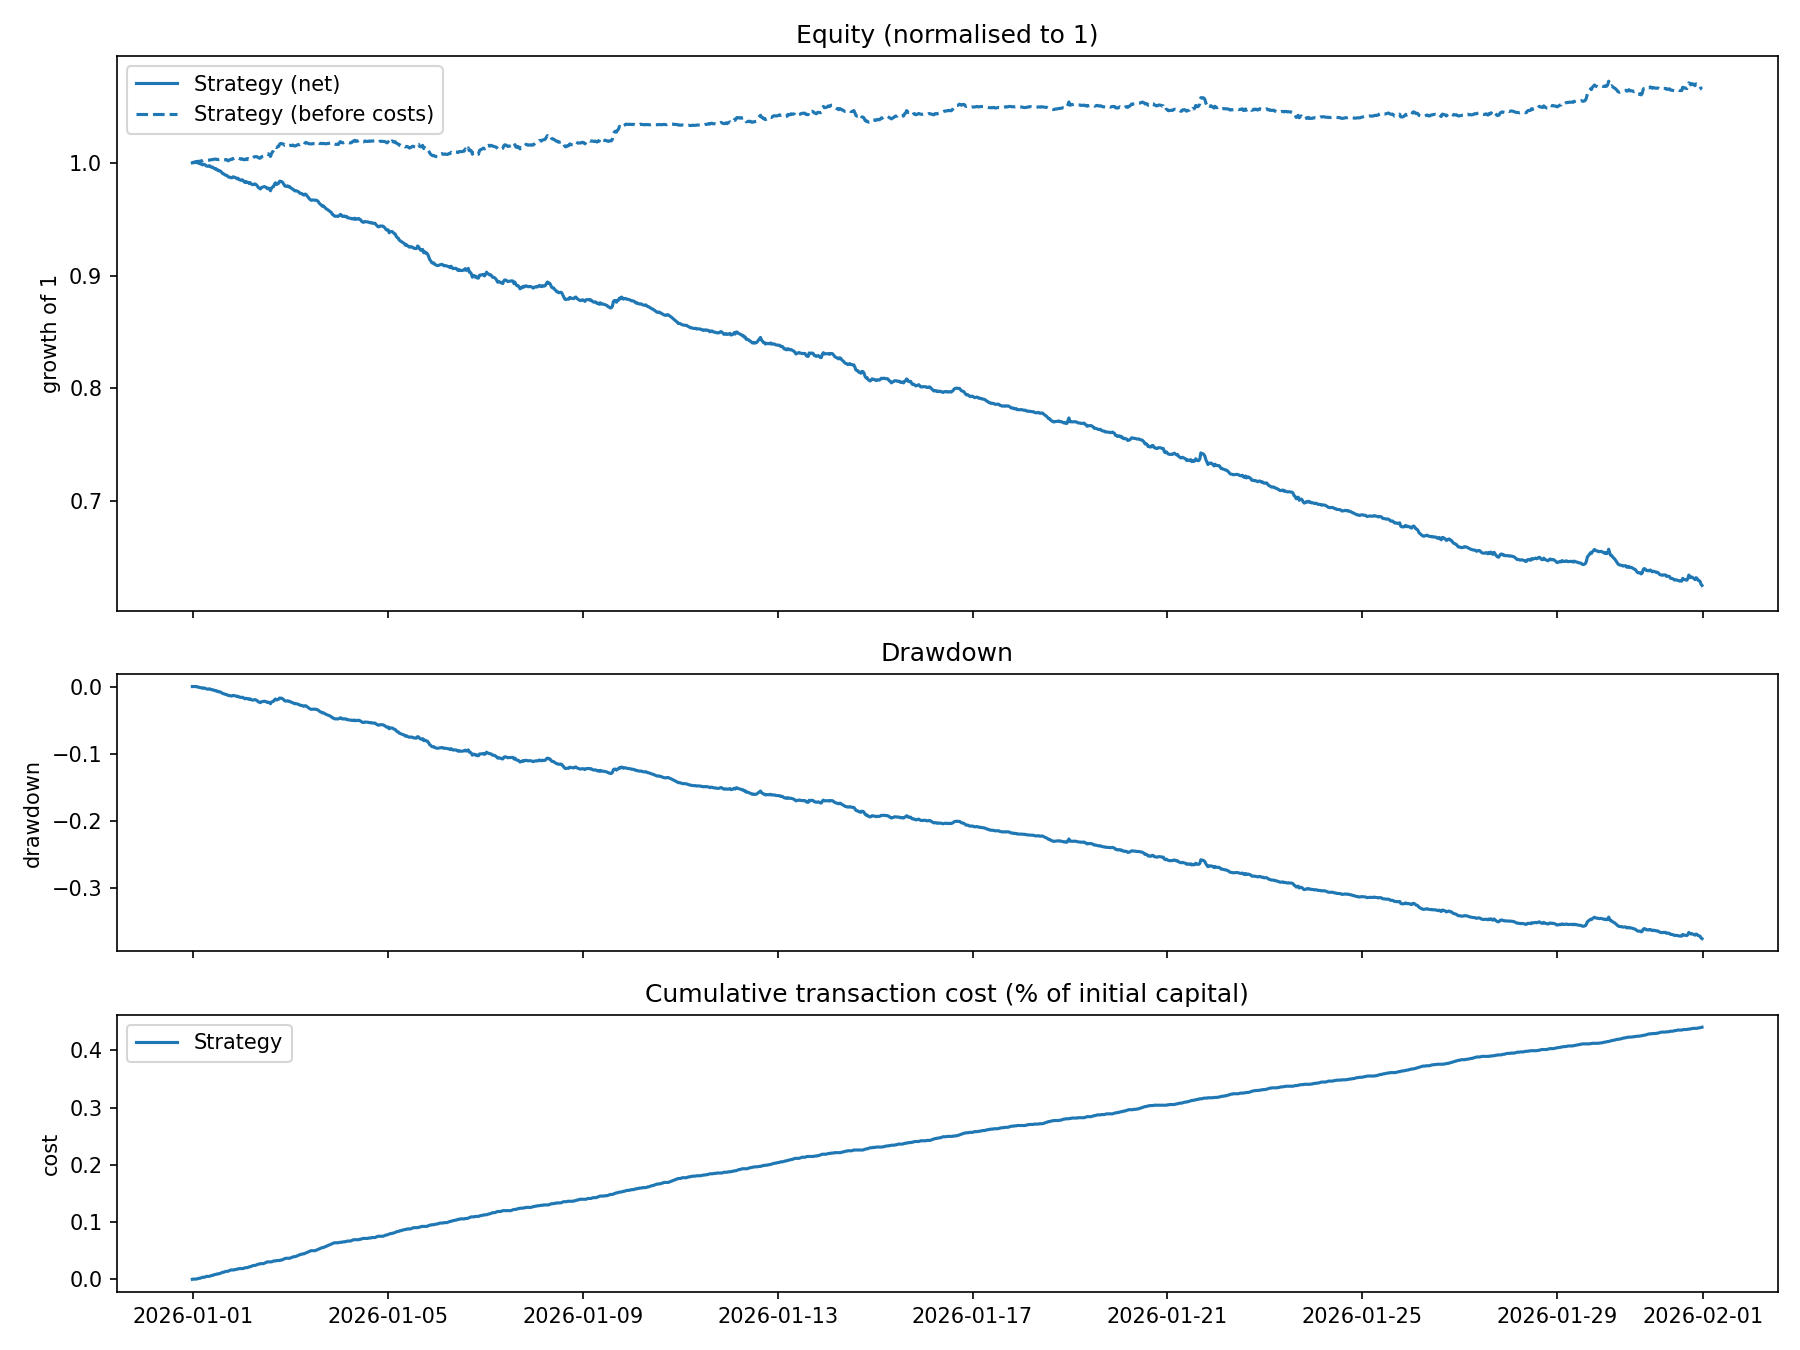
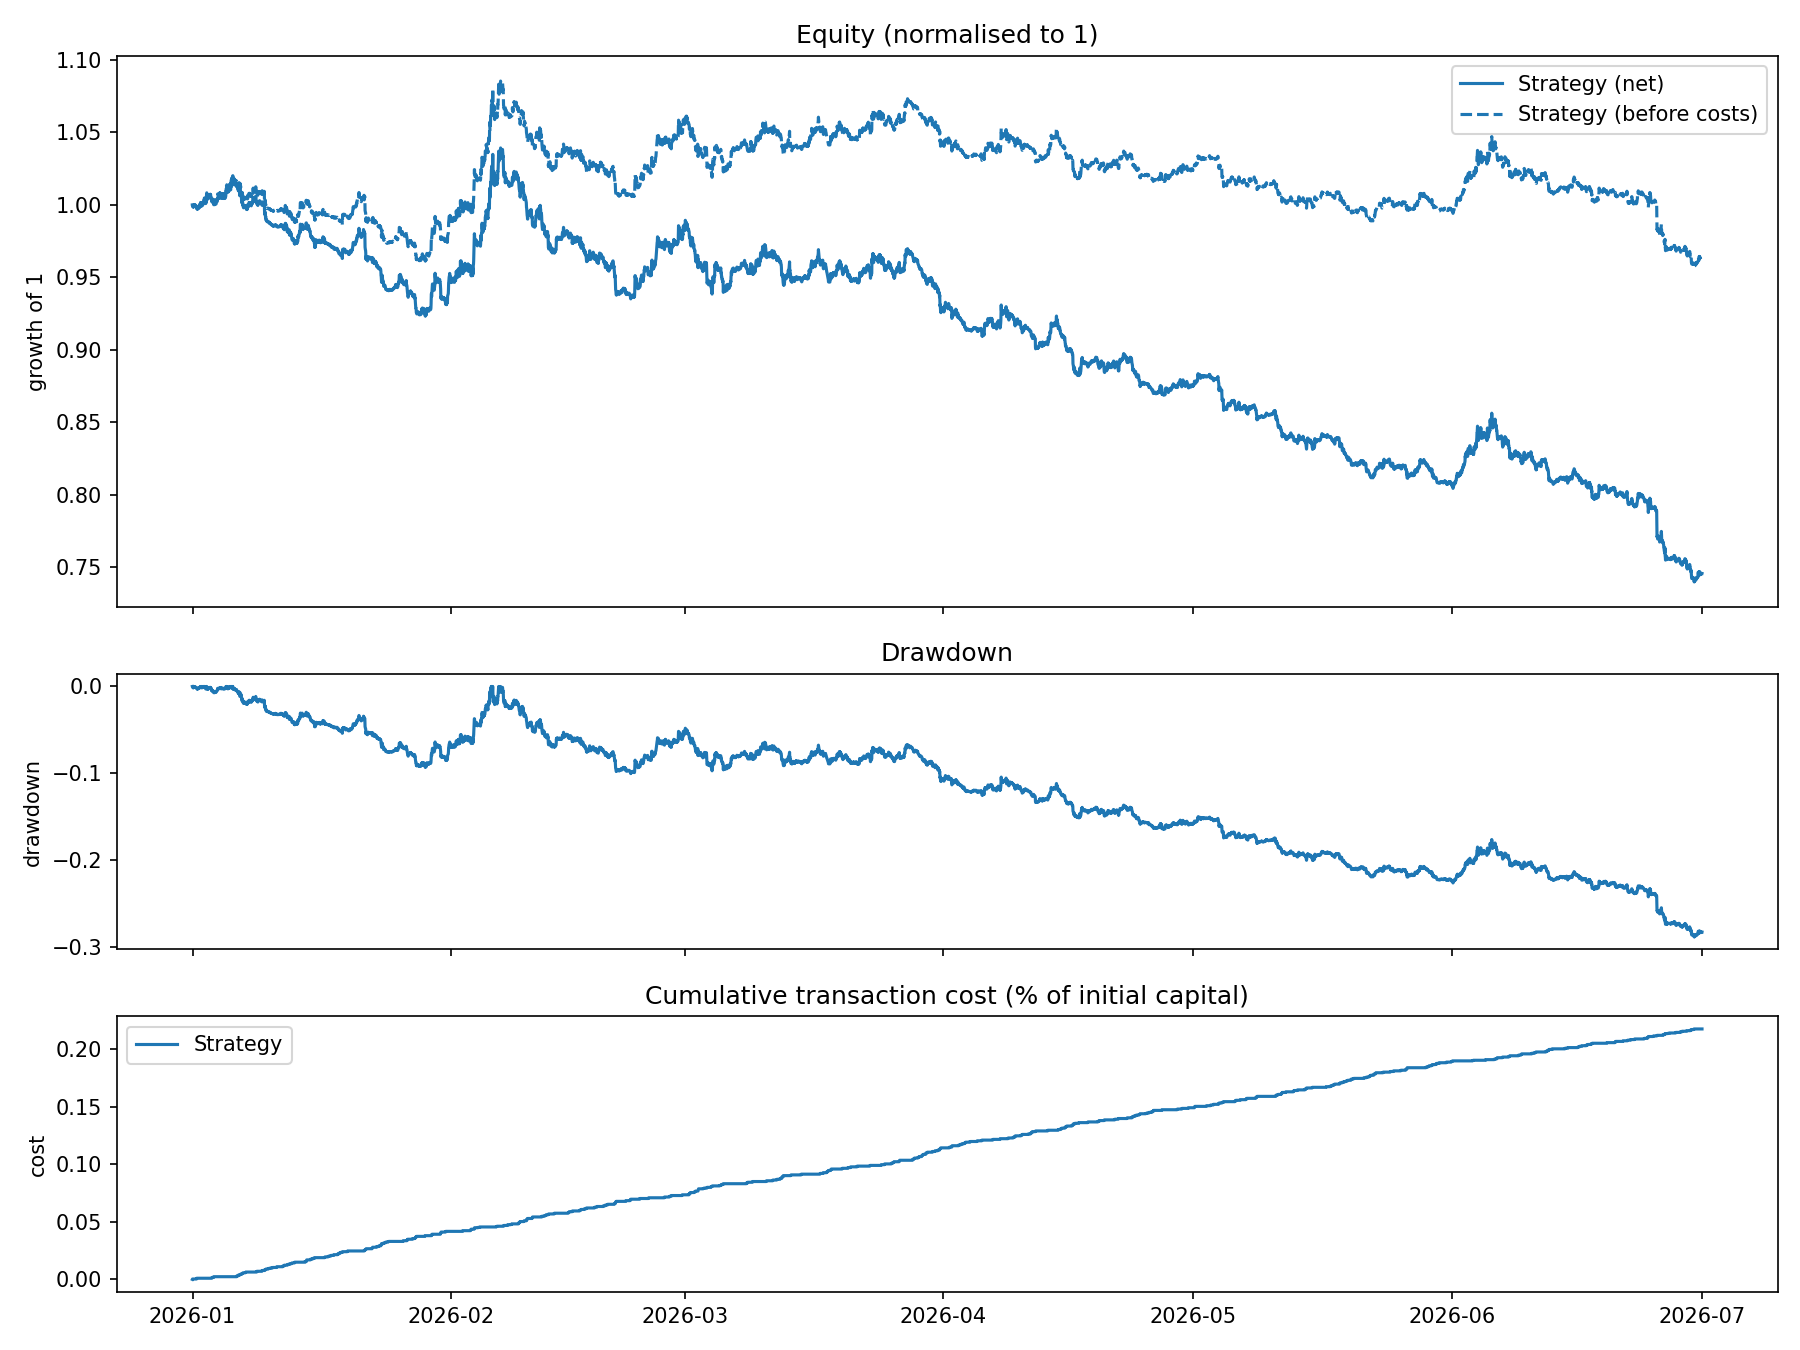
Added mean reversion and momentum

diff --git a/run_daily.py b/run_daily.py
@@ -28,10 +28,12 @@ from src.backtest import execute_bar
 from src.data_source import fetch_bars
 from src.features import build_features
 from src.records import append_csv, load_state, save_state
-from src.strategy import HoldStrategy
+from src.strategy import RegimeStrategy
 from src.tracker import CostModel, Portfolio
 
-STRATEGY_KEYS = ("th_up", "th_down", "min_edge", "horizon", "allow_short")
+STRATEGY_KEYS = ("vol_high", "vol_low", "mom_rsi", "mr_rsi", "mr_bb", "horizon", "allow_short")
+# technical indicators (from build_features, data through t-1) passed to the strategy each bar
+INDICATOR_COLS = ("rsi_14", "close_over_sma_20", "close_over_sma_50", "bb_pctb_20", "bb_width_20")
 
 
 def cost_model_from(cfg) -> CostModel:
@@ -40,7 +42,8 @@ def cost_model_from(cfg) -> CostModel:
 
 
 def strategy_params(cfg, asset: str) -> dict:
-    defaults = {"th_up": cfg.TH_UP, "th_down": cfg.TH_DOWN, "min_edge": cfg.MIN_EDGE,
+    defaults = {"vol_high": cfg.VOL_HIGH, "vol_low": cfg.VOL_LOW, "mom_rsi": cfg.MOM_RSI,
+                "mr_rsi": cfg.MR_RSI, "mr_bb": cfg.MR_BB,
                 "horizon": cfg.HORIZON, "allow_short": cfg.ALLOW_SHORT}
     return {k: cfg.ASSETS[asset].get(k, v) for k, v in defaults.items()}
 
@@ -63,7 +66,7 @@ class DailyRunner:
         state = load_state(cfg.RECORDS_DIR)
         if state is None:
             self.pf = Portfolio(cfg.INITIAL_CASH, cost_model=costs)
-            self.strategies = {a: HoldStrategy(**strategy_params(cfg, a)) for a in self.assets}
+            self.strategies = {a: RegimeStrategy(**strategy_params(cfg, a)) for a in self.assets}
             self.prev_targets = {a: 0.0 for a in self.assets}
             self.last_bar_time = {a: None for a in self.assets}
         else:
@@ -77,10 +80,10 @@ class DailyRunner:
             for a in self.assets:
                 saved = state["strategies"][a]
                 params = strategy_params(cfg, a)
-                changed = [k for k in STRATEGY_KEYS if saved[k] != params[k]]
+                changed = [k for k in STRATEGY_KEYS if saved.get(k) != params[k]]
                 if changed:
                     print(f"  warning: {a} strategy settings changed since last run: {changed}")
-                self.strategies[a] = HoldStrategy(**params, position=saved["position"],
+                self.strategies[a] = RegimeStrategy(**params, position=saved["position"],
                                                   bars_left=saved["bars_left"])
                 self.prev_targets[a] = float(state["prev_targets"][a])
                 t = state["last_bar_time"][a]
@@ -113,8 +116,16 @@ class DailyRunner:
         #     print(f"  warning: {asset}: {nan_rows} bars with NaN features (increase LOOKBACK_DAYS?)")
         # return (pd.Series(up.predict(X), index=X.index),
         #         pd.Series(down.predict(X), index=X.index))
+        feats = build_features(hist[asset], asset, hist)
+        cols = feats.columns
+        X = feats.loc[bars_today.index, cols]
+        nan_rows = int(X.isna().any(axis=1).sum())
+        if nan_rows:
+            print(f"  warning: {asset}: {nan_rows} bars with NaN features (increase LOOKBACK_DAYS?)")
+        # print(feats)
         return (pd.Series(np.random.rand(len(bars_today)), index=bars_today.index),
-                pd.Series(np.random.rand(len(bars_today)), index=bars_today.index))
+                pd.Series(np.random.rand(len(bars_today)), index=bars_today.index),
+                feats.loc[bars_today.index, list(INDICATOR_COLS)])
 
     def run_day(self, day) -> int:
         """Process every not-yet-processed bar of `day` (UTC). Returns bars processed."""
@@ -137,8 +148,8 @@ class DailyRunner:
             timeline = timeline.union(today[a].index)
         data = {}
         for a in active:
-            p_up, p_down = self._predict(a, hist, today[a])
-            df = today[a][["open", "close"]].assign(p_up=p_up, p_down=p_down)
+            p_up, p_down, ind = self._predict(a, hist, today[a])
+            df = today[a][["open", "close"]].assign(p_up=p_up, p_down=p_down).join(ind)
             data[a] = df.reindex(timeline)
 
         n_fills, n_trades, n_eq = len(self.pf._fills), len(self.pf._trades), len(self.pf._equity)
@@ -149,8 +160,10 @@ class DailyRunner:
                 row = data[a].loc[ts]
                 if np.isnan(row["open"]):
                     continue                      # no bar for this asset at ts
+                indicators = {k: float(row[k]) for k in INDICATOR_COLS}
                 signals[a], targets[a] = self.strategies[a].step(float(row["p_up"]),
-                                                                 float(row["p_down"]))
+                                                                 float(row["p_down"]),
+                                                                 indicators)
                 opens[a], closes[a] = float(row["open"]), float(row["close"])
             before = {a: self.pf.position(a) for a in targets}
             fills = execute_bar(self.pf, ts, targets, self.prev_targets, opens, closes,
@@ -164,7 +177,9 @@ class DailyRunner:
                           "sell" if after < before[a] - 1e-12 else "hold")
                 decisions.append({"timestamp": ts, "asset": a, "open": opens[a],
                                   "close": closes[a], "p_up": data[a].at[ts, "p_up"],
-                                  "p_down": data[a].at[ts, "p_down"], "signal": signals[a],
+                                  "p_down": data[a].at[ts, "p_down"],
+                                  **{k: data[a].at[ts, k] for k in INDICATOR_COLS},
+                                  "signal": signals[a],
                                   "target": targets[a], "action": action,
                                   "position_qty": after, "transaction_cost": cost.get(a, 0.0),
                                   "portfolio_equity": equity})

diff --git a/src/strategy.py b/src/strategy.py
@@ -10,6 +10,8 @@ from __future__ import annotations
 import numpy as np
 import pandas as pd
 
+NAN = float("nan")
+
 
 def signals_from_probs(p_up: pd.Series, p_down: pd.Series, th_up: float = 0.15,
                        th_down: float = 0.15, min_edge: float = 0.0,
@@ -26,6 +28,7 @@ def signals_from_probs(p_up: pd.Series, p_down: pd.Series, th_up: float = 0.15,
     sig = pd.Series(0, index=p_up.index, dtype=int)
     sig[long_] = 1
     sig[short_ & ~long_] = -1
+    print(sig)
     return sig
 
 
@@ -65,16 +68,18 @@ class HoldStrategy:
         self.horizon, self.allow_short, self.exit_on_opposite = horizon, allow_short, exit_on_opposite
         self.position, self.bars_left = position, bars_left
 
-    def signal(self, p_up: float, p_down: float) -> int:
+    def signal(self, p_up: float, p_down: float, indicators: dict | None = None) -> int:
+        """Probabilities only; `indicators` is ignored here (see RegimeStrategy)."""
         if p_up >= self.th_up and p_up - p_down >= self.min_edge:
             return 1
         if self.allow_short and p_down >= self.th_down and p_down - p_up >= self.min_edge:
             return -1
         return 0
 
-    def step(self, p_up: float, p_down: float) -> tuple[int, int]:
+    def step(self, p_up: float, p_down: float,
+             indicators: dict | None = None) -> tuple[int, int]:
         """Returns (entry signal, position to hold during this bar)."""
-        s = self.signal(p_up, p_down)
+        s = self.signal(p_up, p_down, indicators)
         if s != 0 and (self.position == 0 or s == self.position or self.exit_on_opposite):
             self.position, self.bars_left = s, self.horizon
         held = self.position
@@ -90,3 +95,59 @@ class HoldStrategy:
     @classmethod
     def from_state(cls, state: dict) -> "HoldStrategy":
         return cls(**state)
+
+
+class RegimeStrategy(HoldStrategy):
+    """Momentum / mean-reversion strategy that uses the models only as a volatility gauge.
+
+    The up / down models mostly predict the SIZE of the next move, not its direction, so
+    vol = p_up + p_down (chance of a >1 SD move either way within the horizon) picks the regime:
+      vol >= vol_high  -> momentum: follow the trend (price vs SMA20/SMA50 + RSI)
+      vol <= vol_low   -> mean reversion: fade extremes (Bollinger %B + RSI)
+      in between       -> no new entry (an open position keeps its holding clock)
+    Direction always comes from the indicators. Holding / flipping works as in HoldStrategy.
+    NaN indicators (warm-up) never trigger an entry because NaN comparisons are False.
+    """
+
+    def __init__(self, vol_high: float = 0.40, vol_low: float = 0.25,
+                 mom_rsi: float = 55.0, mr_rsi: float = 30.0, mr_bb: float = 0.0,
+                 horizon: int = 12, allow_short: bool = True, exit_on_opposite: bool = True,
+                 position: int = 0, bars_left: int = 0):
+        self.vol_high, self.vol_low = vol_high, vol_low
+        self.mom_rsi, self.mr_rsi, self.mr_bb = mom_rsi, mr_rsi, mr_bb
+        self.horizon, self.allow_short, self.exit_on_opposite = horizon, allow_short, exit_on_opposite
+        self.position, self.bars_left = position, bars_left
+
+    # --- indicator signals: +1 long, -1 short, 0 none (NaN during warm-up -> 0) ---
+    def momentum_signal(self, ind: dict) -> int:
+        """Trend following: price above both SMAs with strong RSI -> long, mirror -> short."""
+        rsi = ind.get("rsi_14", NAN)
+        sma20, sma50 = ind.get("close_over_sma_20", NAN), ind.get("close_over_sma_50", NAN)
+        if sma20 > 0 and sma50 > 0 and rsi >= self.mom_rsi:
+            return 1
+        if sma20 < 0 and sma50 < 0 and rsi <= 100 - self.mom_rsi:
+            return -1
+        return 0
+
+    def mean_reversion_signal(self, ind: dict) -> int:
+        """Fade extremes: below lower Bollinger band and oversold -> long, mirror -> short."""
+        rsi, pctb = ind.get("rsi_14", NAN), ind.get("bb_pctb_20", NAN)
+        if pctb <= self.mr_bb and rsi <= self.mr_rsi:
+            return 1
+        if pctb >= 1 - self.mr_bb and rsi >= 100 - self.mr_rsi:
+            return -1
+        return 0
+
+    # --- combine with the volatility forecast ---
+    def signal(self, p_up: float, p_down: float, indicators: dict | None = None) -> int:
+        ind = indicators or {}
+        vol = p_up + p_down
+        if vol >= self.vol_high:
+            s = self.momentum_signal(ind)
+        elif vol <= self.vol_low:
+            s = self.mean_reversion_signal(ind)
+        else:
+            s = 0
+        if s == -1 and not self.allow_short:
+            return 0
+        return s

diff --git a/src/features.py b/src/features.py
@@ -57,4 +57,106 @@ def build_features(bars: pd.DataFrame, asset: str | None = None,
         f["range_1"] = (bars["high"] - bars["low"]) / c
     if "volume" in bars.columns:
         f["vol_ratio_48"] = bars["volume"] / bars["volume"].rolling(48).mean()
-    return f.shift(1)  # leakage guard: row t sees nothing from bar t onwards
+
+    o, h, l, c, v = bars["open"], bars["high"], bars["low"], bars["close"], bars["volume"]
+    qv = bars["quote_volume"]
+    tc = bars["trade_count"]
+
+    feat = pd.DataFrame(index=bars.index)
+    ret1 = np.log(c / c.shift(1))
+
+    # --- lagged log returns ---
+    for lag in [1, 2, 3, 6, 12, 24, 48, 96]:
+        feat[f"ret_lag_{lag}"] = np.log(c / c.shift(lag))
+
+    # --- rolling return moments ---
+    for w in [6, 12, 24, 48, 96, 192]:
+        feat[f"ret_mean_{w}"] = ret1.rolling(w).mean()
+        feat[f"ret_std_{w}"] = ret1.rolling(w).std()
+        feat[f"ret_skew_{w}"] = ret1.rolling(w).skew()
+
+    # --- moving-average deviation ---
+    for w in [5, 10, 20, 50, 100, 200]:
+        sma = c.rolling(w).mean()
+        ema = c.ewm(span=w, adjust=False).mean()
+        feat[f"close_over_sma_{w}"] = c / sma - 1
+        feat[f"close_over_ema_{w}"] = c / ema - 1
+
+    # --- MACD ---
+    ema12 = c.ewm(span=12, adjust=False).mean()
+    ema26 = c.ewm(span=26, adjust=False).mean()
+    macd = ema12 - ema26
+    macd_signal = macd.ewm(span=9, adjust=False).mean()
+    feat["macd"] = macd / c
+    feat["macd_signal"] = macd_signal / c
+    feat["macd_hist"] = (macd - macd_signal) / c
+
+
+    def rsi(series, w=14):
+        delta = series.diff()
+        gain = delta.clip(lower=0)
+        loss = -delta.clip(upper=0)
+        avg_gain = gain.ewm(alpha=1 / w, adjust=False).mean()
+        avg_loss = loss.ewm(alpha=1 / w, adjust=False).mean()
+        rs = avg_gain / avg_loss.replace(0, np.nan)
+        return 100 - (100 / (1 + rs))
+
+
+    for w in [7, 14, 21]:
+        feat[f"rsi_{w}"] = rsi(c, w)
+
+    # --- Bollinger Bands ---
+    for w in [20, 50]:
+        sma = c.rolling(w).mean()
+        std = c.rolling(w).std()
+        upper, lower = sma + 2 * std, sma - 2 * std
+        feat[f"bb_pctb_{w}"] = (c - lower) / (upper - lower)
+        feat[f"bb_width_{w}"] = (upper - lower) / sma
+
+    # --- ATR ---
+    prev_close = c.shift(1)
+    tr = pd.concat([h - l, (h - prev_close).abs(), (l - prev_close).abs()], axis=1).max(axis=1)
+    for w in [14, 28]:
+        atr = tr.ewm(alpha=1 / w, adjust=False).mean()
+        feat[f"atr_{w}"] = atr / c
+
+    # --- stochastic oscillator ---
+    for w in [14]:
+        lowest, highest = l.rolling(w).min(), h.rolling(w).max()
+        k = 100 * (c - lowest) / (highest - lowest)
+        feat[f"stoch_k_{w}"] = k
+        feat[f"stoch_d_{w}"] = k.rolling(3).mean()
+
+    # --- candle shape ---
+    feat["body"] = (c - o) / o
+    feat["upper_wick"] = (h - np.maximum(o, c)) / o
+    feat["lower_wick"] = (np.minimum(o, c) - l) / o
+    feat["hl_range"] = (h - l) / c
+
+    # --- volume / activity anomalies ---
+    vol_ma = v.rolling(20).mean()
+    feat["vol_ratio_20"] = v / vol_ma
+    feat["vol_chg_1"] = np.log(v.replace(0, np.nan) / v.shift(1).replace(0, np.nan))
+    feat["vol_z_20"] = (v - vol_ma) / v.rolling(20).std()
+    feat["dollar_vol_ratio_20"] = qv / qv.rolling(20).mean()
+    feat["trade_count_z_20"] = (tc - tc.rolling(20).mean()) / tc.rolling(20).std()
+
+    # --- pct change ---
+    for w in [3, 6, 12, 24]:
+        feat[f"roc_{w}"] = c.pct_change(w)
+
+    # --- rolling up-rate ---
+    up_bar = (c > o).astype(float)
+    for w in [10, 20, 50]:
+        feat[f"uprate_{w}"] = up_bar.rolling(w).mean()
+
+    # --- cyclical time encodings ---
+    hour = bars.index.hour + bars.index.minute / 60
+    feat["hour_sin"] = np.sin(2 * np.pi * hour / 24)
+    feat["hour_cos"] = np.cos(2 * np.pi * hour / 24)
+    dow = bars.index.dayofweek
+    feat["dow_sin"] = np.sin(2 * np.pi * dow / 7)
+    feat["dow_cos"] = np.cos(2 * np.pi * dow / 7)
+
+    print("num features:", feat.shape[1])
+    return feat.shift(1)  # leakage guard: row t sees nothing from bar t onwards

diff --git a/config.py b/config.py
@@ -9,7 +9,7 @@ ROOT = Path(__file__).resolve().parent
 #   symbol       value in the CSV's "symbol" column, only if all assets share one CSV
 #   model_up/down  LightGBM models (point all three to the same files for a pooled model)
 #   weight       share of equity used per unit of signal (weights summing to 1 = no leverage)
-# Optional per-asset strategy overrides: th_up, th_down, min_edge, horizon, allow_short
+# Optional per-asset strategy overrides: vol_high, vol_low, mom_rsi, mr_rsi, mr_bb, horizon, allow_short
 ASSETS = {
     "BTC": {"csv": ROOT / "data" / "market_bars_30m_with_backfill.csv",
             "model_up": ROOT / "models" / "btc_up.txt",
@@ -42,8 +42,11 @@ MIN_FEE = 0.0                       # minimum commission per order
 COST_OVERRIDES = {}                 # e.g. {"SOL": {"slippage_bps": 5.0}}
 
 # --- strategy defaults (choose on the VALIDATION set) ------------------------------
-TH_UP = 0.15
-TH_DOWN = 0.15
-MIN_EDGE = 0.02
+# p_up + p_down is used as a volatility gauge (see src/strategy.py RegimeStrategy)
+VOL_HIGH = 0.40                     # vol >= this -> momentum regime
+VOL_LOW = 0.25                      # vol <= this -> mean-reversion regime (between: no entry)
+MOM_RSI = 55.0                      # momentum: long if RSI >= this, short if RSI <= 100 - this
+MR_RSI = 30.0                       # mean reversion: long if RSI <= this, short if RSI >= 100 - this
+MR_BB = 0.0                         # mean reversion: long if %B <= this, short if %B >= 1 - this
 HORIZON = 12                        # bars to hold after an entry signal
 ALLOW_SHORT = True
